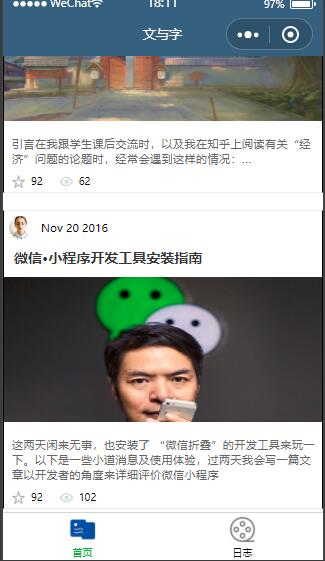
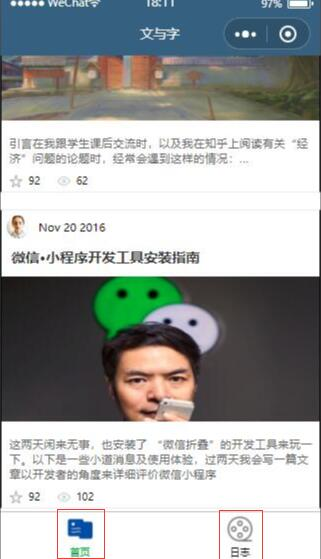
docs: 修改图片，编辑可点区域

diff --git a/README.md b/README.md
@@ -11,3 +11,5 @@
 ![image](./4.jpg)
 
 ![image](./5.jpg)
+
+![image](./6.jpg)
